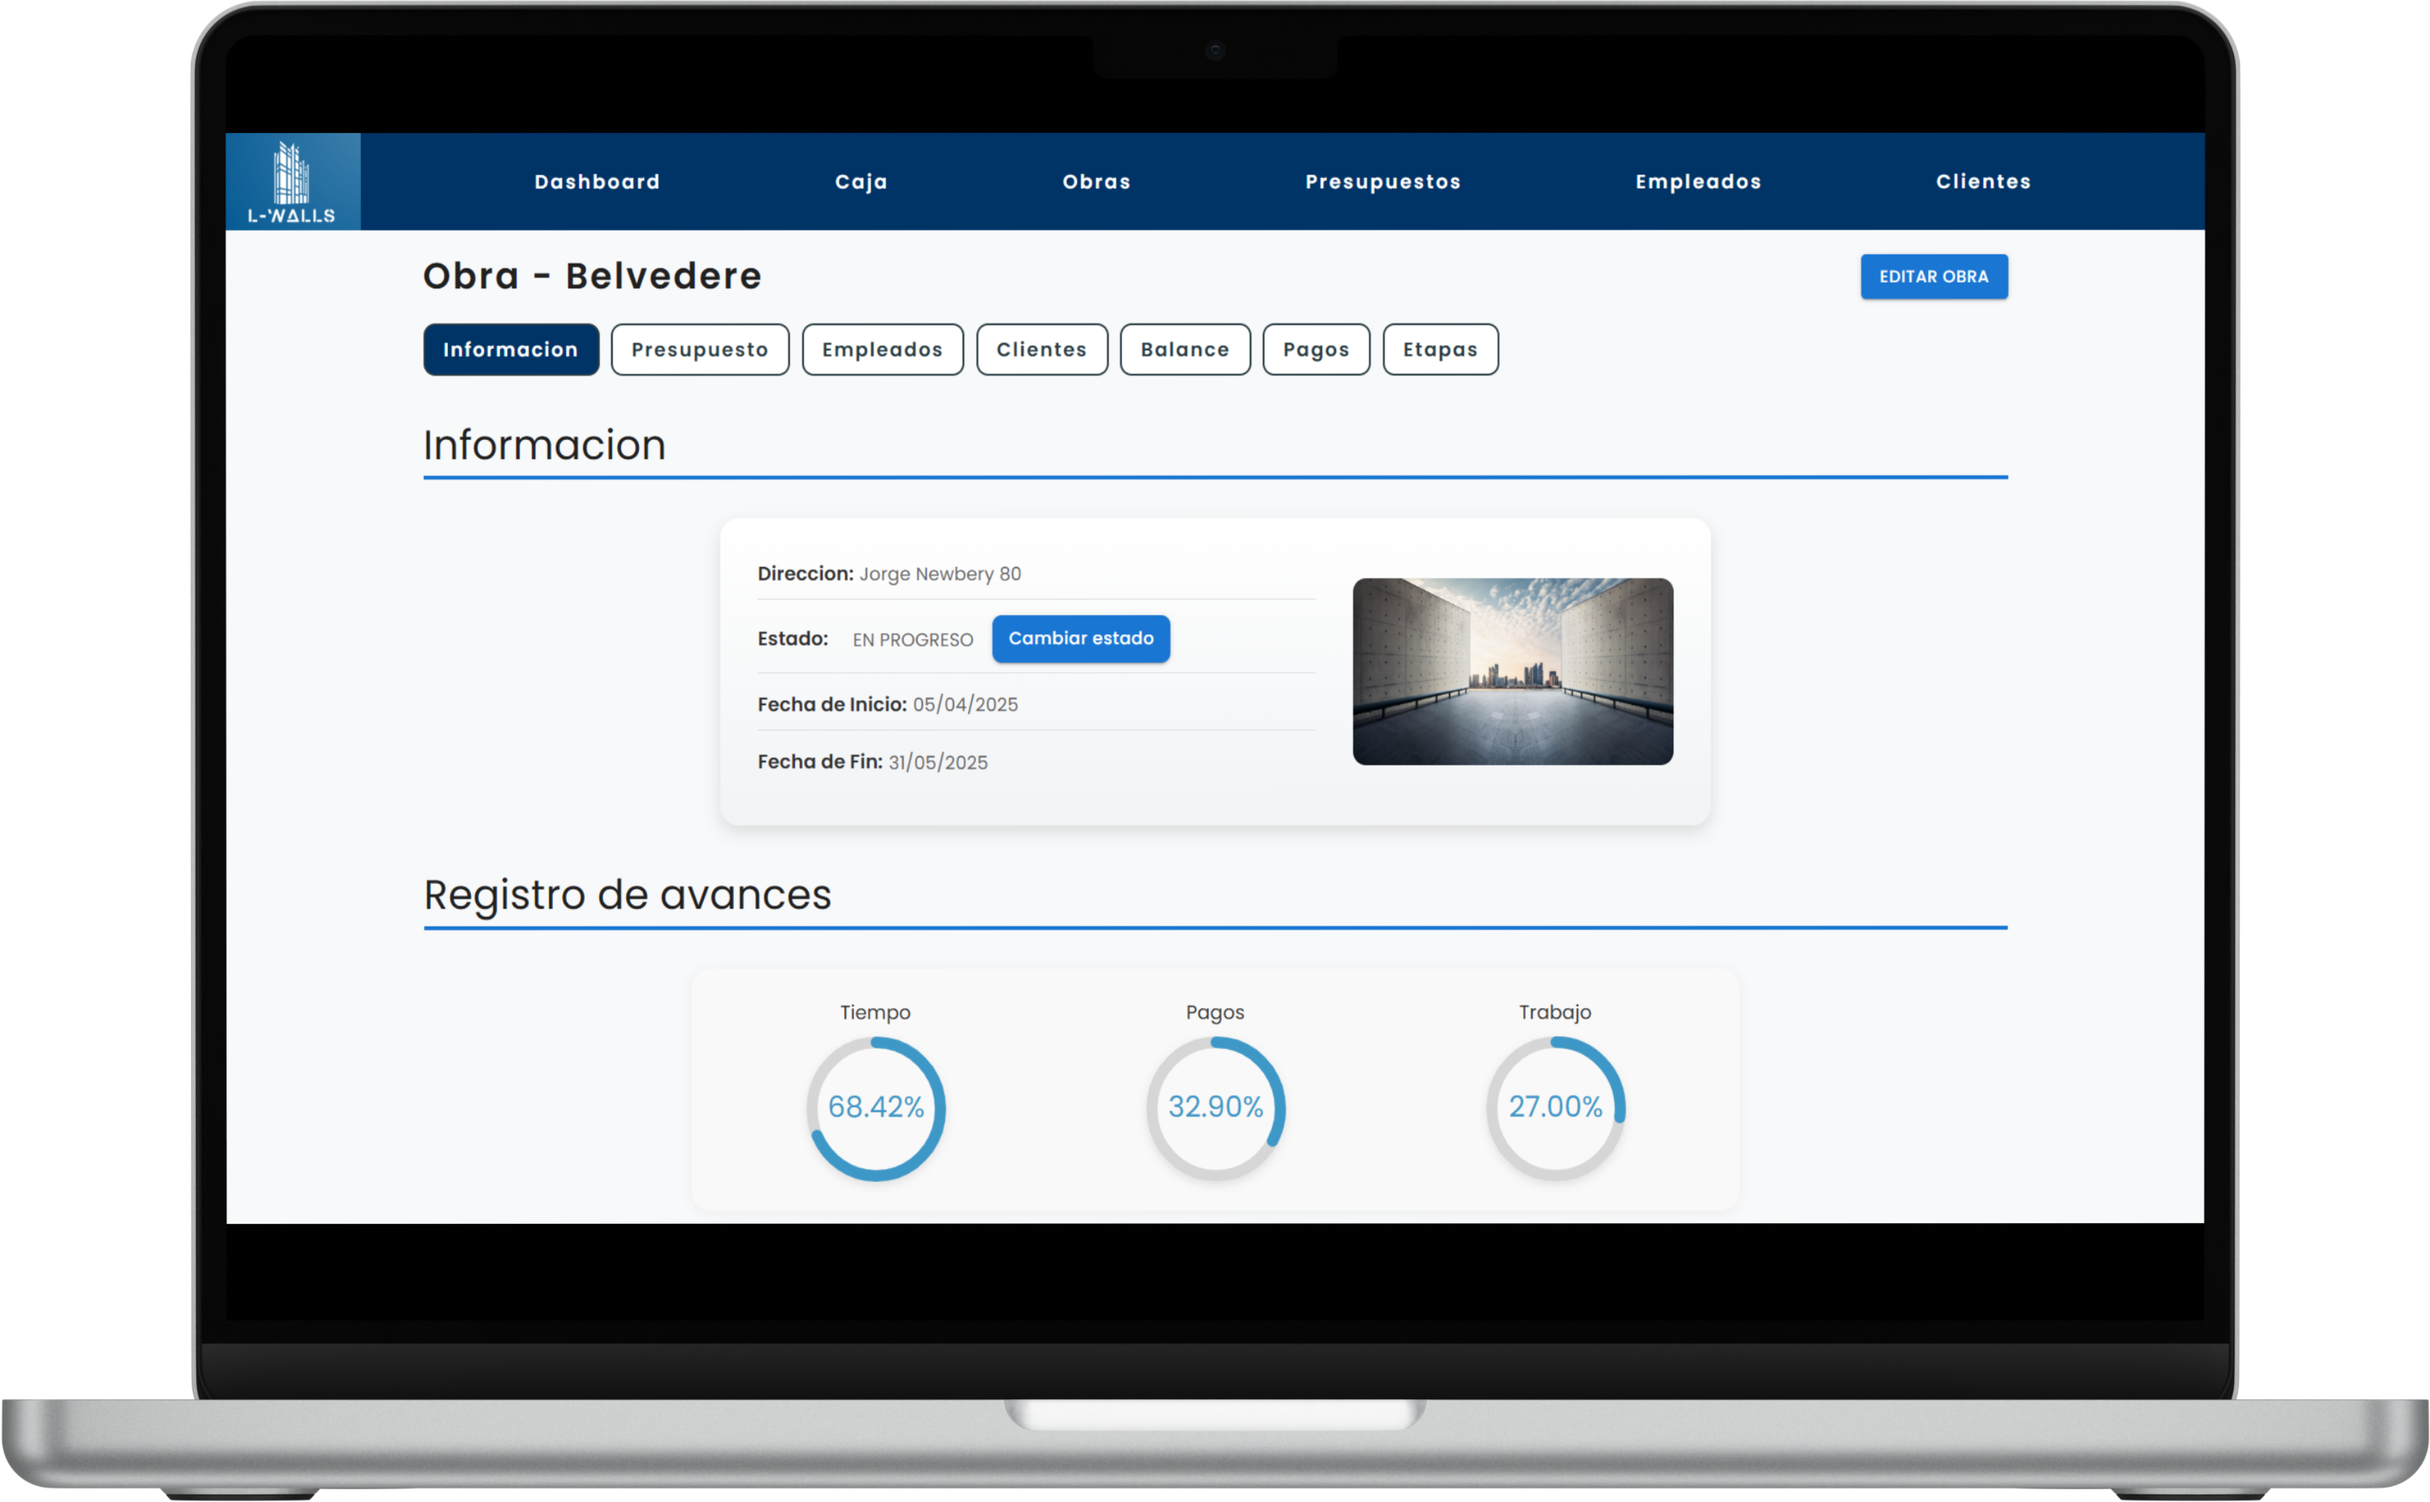
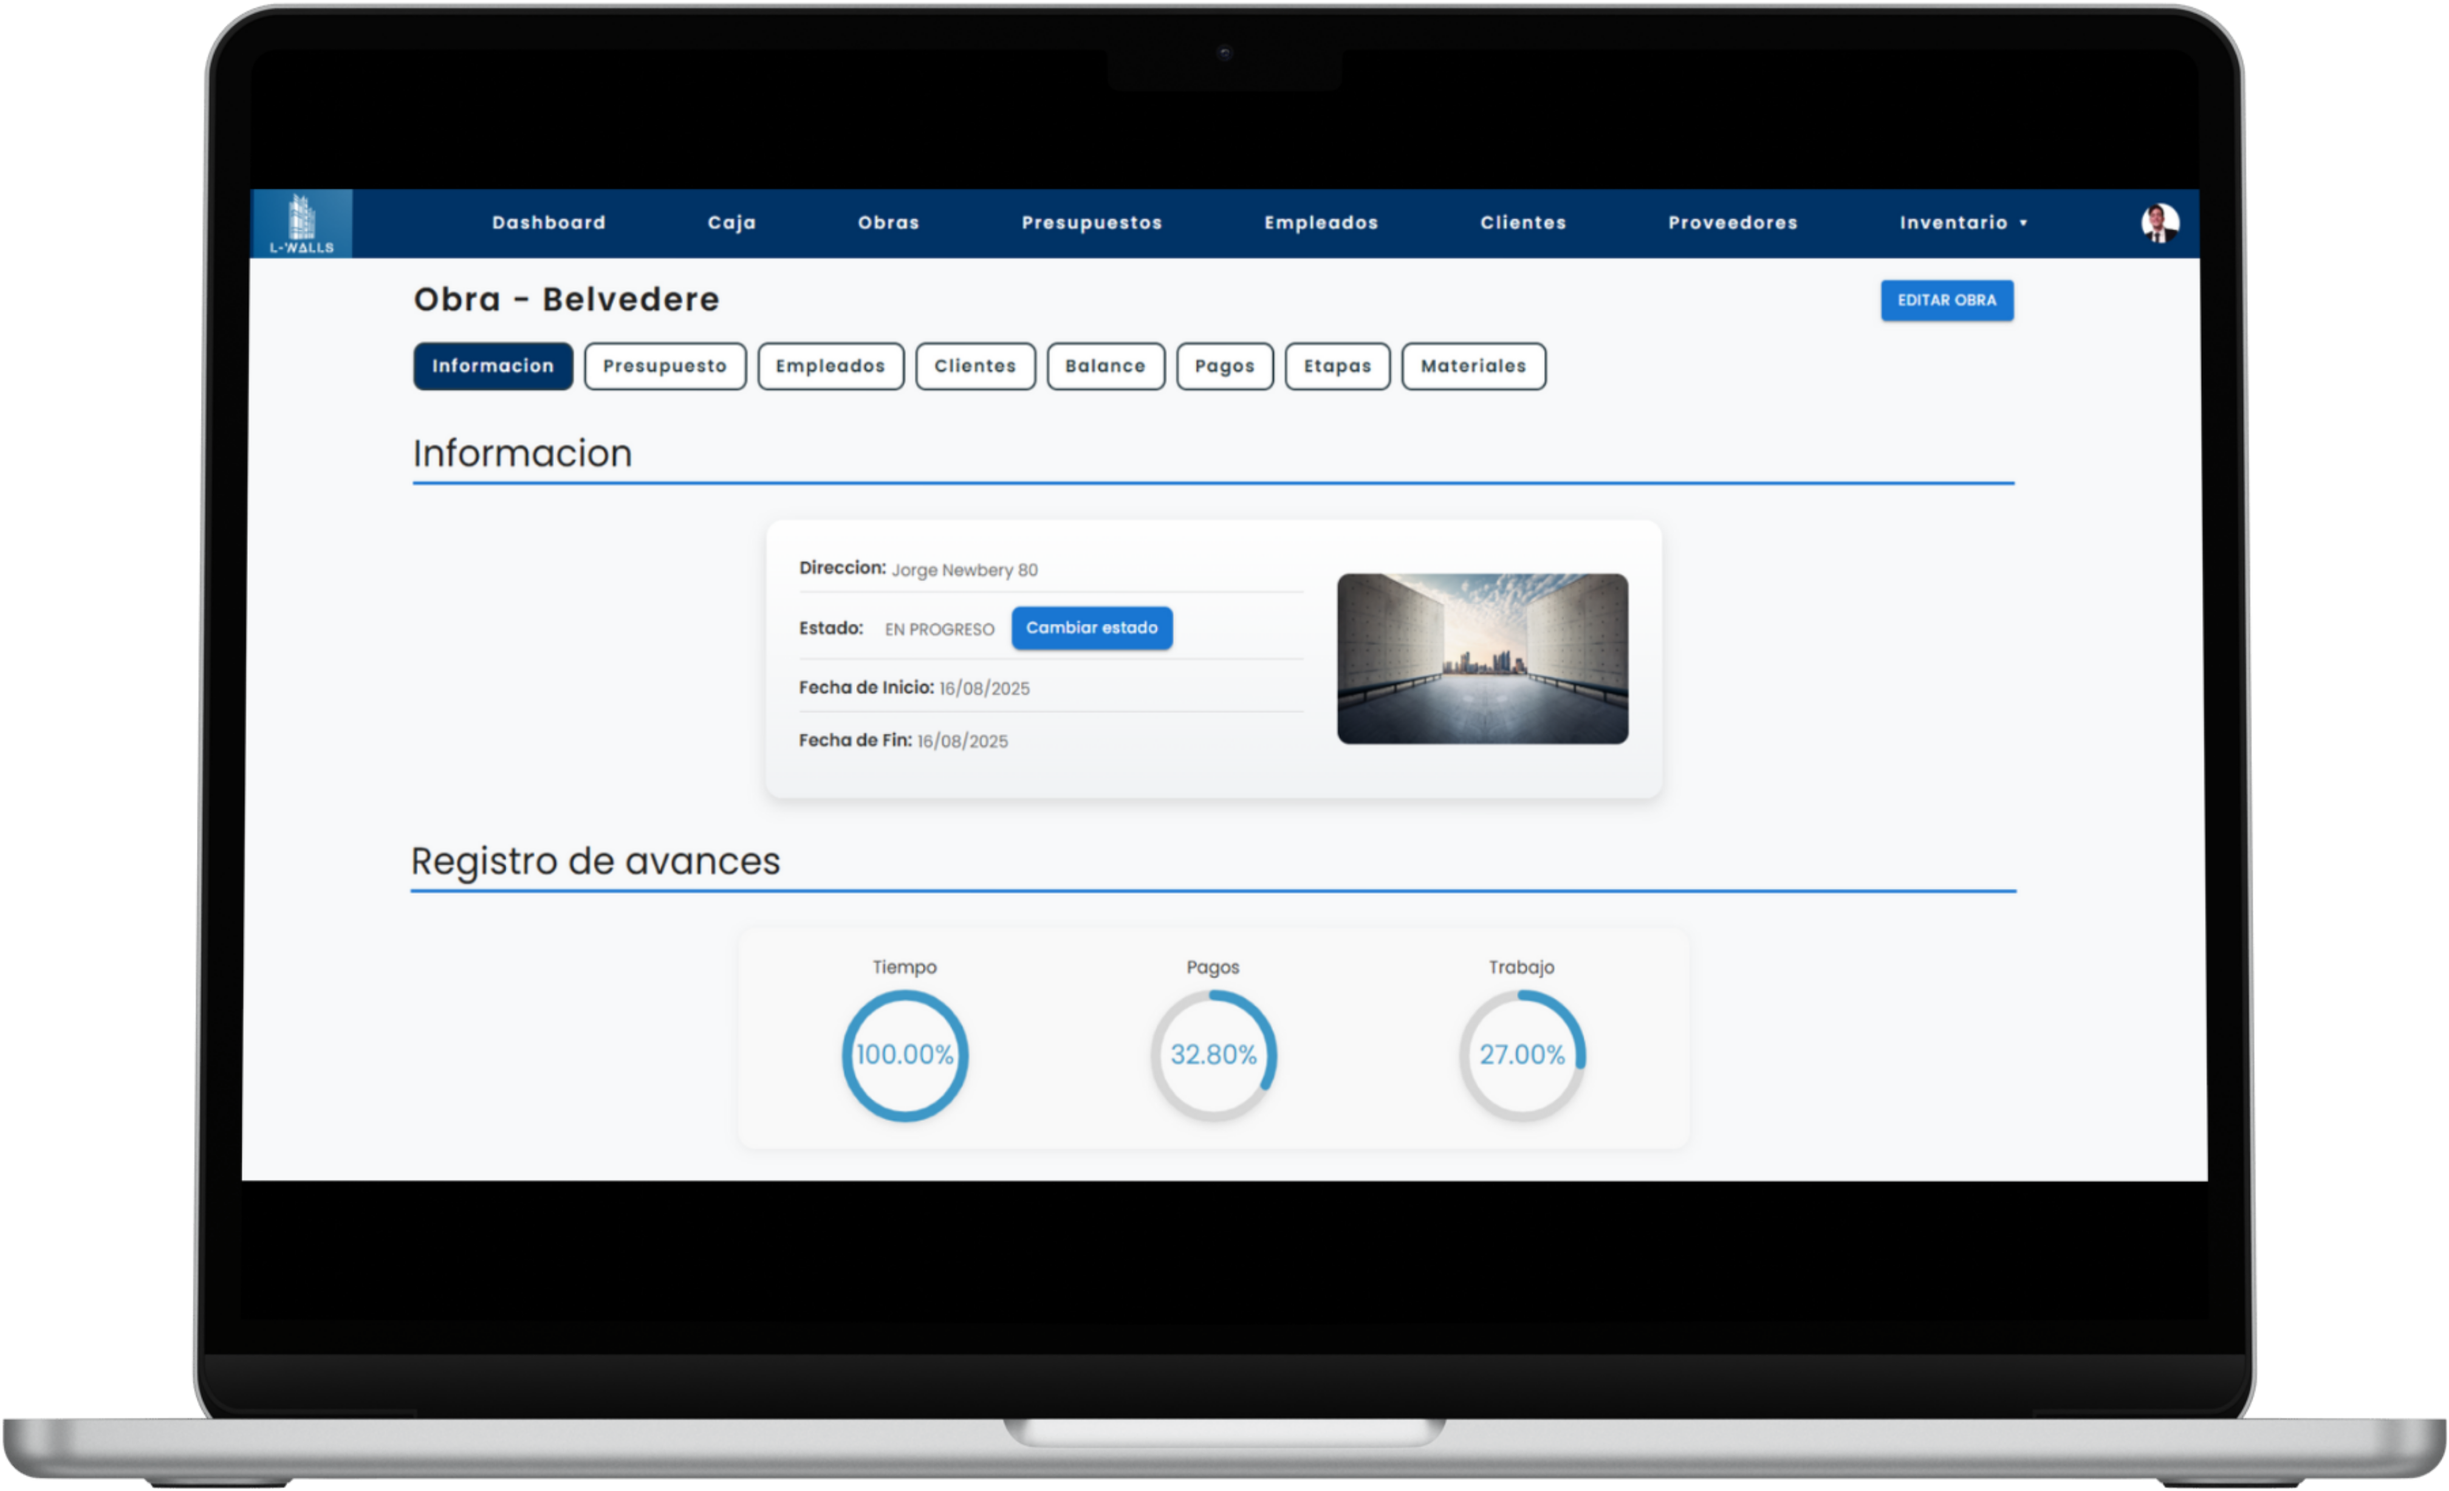
Actualizacion de text de Modules

diff --git a/src/components/Modules.jsx b/src/components/Modules.jsx
@@ -16,14 +16,14 @@ import { Pagination, Navigation } from 'swiper/modules';
 
 export default function Modules() {
   const modules = [
-    { icon: <FaCashRegister />, name: 'Caja', desc: 'Gestión de ingresos y egresos.' },
-    { icon: <FaHardHat />, name: 'Obras', desc: 'Seguimiento de avances y tareas.' },
-    { icon: <FaFileInvoice />, name: 'Presupuestos', desc: 'Creación y control de presupuestos.' },
-    { icon: <FaUsers />, name: 'Empleados', desc: 'Gestión de personal y pagos.' },
-    { icon: <FaUserFriends />, name: 'Clientes', desc: 'Información y contacto de clientes.' },
-    { icon: <FaChartBar />, name: 'Dashboard', desc: 'Panel visual de indicadores.' },
-    { icon: <FaTools />, name: 'Herramientas (próximamente)', desc: 'Módulo en desarrollo.' },
-    { icon: <FaTruck />, name: 'Proveedores (próximamente)', desc: 'Módulo en desarrollo.' },
+    { icon: <FaCashRegister />, name: 'Caja', desc: 'Gestión de ingresos y egresos, tanto generales como discriminados por proyecto. Controlá el flujo financiero de tu empresa con precisión y claridad.' },
+    { icon: <FaHardHat />, name: 'Obras', desc: 'Seguimiento de avances y tareas por proyecto. Organizá el trabajo en etapas, subetapas y EDT para una planificación eficiente y trazabilidad completa.' },
+    { icon: <FaFileInvoice />, name: 'Presupuestos', desc: 'Creación, edición y control de presupuestos. Generá propuestas detalladas y llevá el seguimiento de costos reales vs estimados.' },
+    { icon: <FaUsers />, name: 'Empleados', desc: 'Gestión integral del personal: cronogramas, asistencia, cálculo de sueldos y pagos. Todo lo necesario para administrar tu equipo de forma ordenada y transparente.' },
+    { icon: <FaUserFriends />, name: 'Clientes', desc: 'Información y contacto de clientes. Accedé rápidamente a sus datos, historial de proyectos y comunicaciones.' },
+    { icon: <FaChartBar />, name: 'Dashboard', desc: 'Panel visual de indicadores por proyecto y generales de la empresa. Tomá decisiones estratégicas con métricas claras y actualizadas.' },
+    { icon: <FaTools />, name: 'Inventario', desc: 'Control de stock de herramientas, materiales e indumentaria. Asigná recursos a proyectos y empleados, y llevá un registro preciso de entradas y salidas.' },
+    { icon: <FaTruck />, name: 'Proveedores', desc: 'Gestión de órdenes, pagos y saldos con proveedores. Mantené relaciones comerciales ordenadas y sin imprevistos.' },
   ];
 
   return (

diff --git a/src/components/Features2.jsx b/src/components/Features2.jsx
@@ -6,14 +6,14 @@ export default function Features() {
     {
       title: 'Todo en un solo lugar',
       description:
-        'Centralizá toda la información de tus obras, presupuestos, clientes, empleados, proveedores, herramientas y caja.',
+        'Centralizá toda la información de tus obras, presupuestos, clientes, empleados, proveedores, herramientas, indumentaria, materiales y caja.',
       image: '/mockup-pc3.png',
       icon: 'fa-th-large',
     },
     {
       title: 'Seguimiento en tiempo real',
       description:
-        'Consultá métricas clave en tiempo real, tanto generales como de obra, y tomá decisiones rápidas desde cualquier dispositivo.',
+        'Consultá métricas clave en tiempo real, tanto generales como de obra. Tomá decisiones rápidas desde cualquier dispositivo.',
       image: '/screen23.png',
       icon: 'fa-sync-alt',
     },

diff --git a/src/components/Hero.jsx b/src/components/Hero.jsx
@@ -30,7 +30,7 @@ export default function Hero() {
       <img src="/logo2.png" alt="Logo" className="w-64 mb-6 drop-shadow-lg animate-fade-in" />
 
       <h1 className="font-raleway text-4xl sm:text-5xl font-extrabold mb-4 max-w-xl text-white leading-tight animate-slide-left">
-  Gestioná tu constructora desde un solo lugar
+  Gestioná tus proyectos desde un solo lugar
 </h1>
 
 <p className="italic font-openSans text-sm sm:text-base mb-10 text-white/80 max-w-md animate-fade-up">
